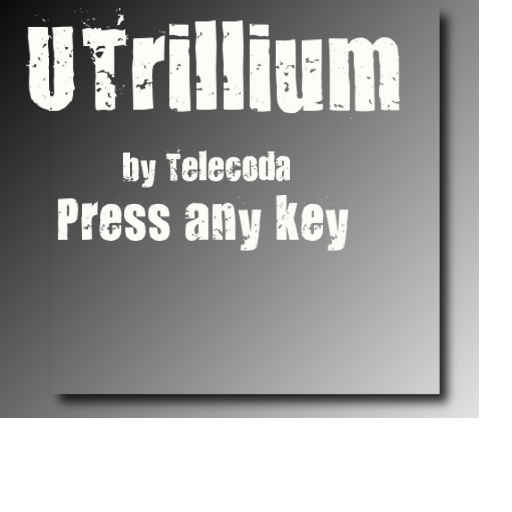
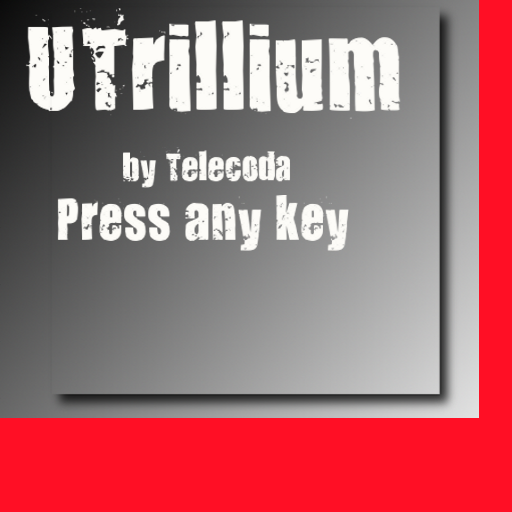
correct scaling on title/intro screens

Changed region(s): [[0.0, 0.0, 1.0, 1.0]]

diff --git a/utrillium/src/com/rsb/utrillium/views/IntroScreen.java b/utrillium/src/com/rsb/utrillium/views/IntroScreen.java
@@ -21,7 +21,7 @@ public class IntroScreen extends UTrilliumScreen {
 
 	@Override
 	public void show () {
-		intro = new TextureRegion(new Texture(Gdx.files.internal("data/intro.png")), 0, 0, UTrilliumConst.SCREEN_WIDTH, UTrilliumConst.SCREEN_WIDTH);
+		intro = new TextureRegion(new Texture(Gdx.files.internal("data/intro.png")), 0, 0, 512, 256);
 		batch = new SpriteBatch();
 		batch.getProjectionMatrix().setToOrtho2D(0, 0, UTrilliumConst.SCREEN_WIDTH, UTrilliumConst.SCREEN_HEIGHT);
 	}
@@ -30,7 +30,7 @@ public class IntroScreen extends UTrilliumScreen {
 	public void render (float delta) {
 		Gdx.gl.glClear(GL10.GL_COLOR_BUFFER_BIT);
 		batch.begin();
-		batch.draw(intro, 0, 0);
+		batch.draw(intro, 0, 0,UTrilliumConst.SCREEN_WIDTH, UTrilliumConst.SCREEN_HEIGHT);
 		batch.end();
 
 		time += delta;

diff --git a/utrillium/src/com/rsb/utrillium/views/MainMenu.java b/utrillium/src/com/rsb/utrillium/views/MainMenu.java
@@ -21,7 +21,7 @@ public class MainMenu extends UTrilliumScreen {
 
 	@Override
 	public void show () {
-		title = new TextureRegion(new Texture(Gdx.files.internal("data/title.png")), 0, 0, UTrilliumConst.SCREEN_WIDTH, UTrilliumConst.SCREEN_HEIGHT);
+		title = new TextureRegion(new Texture(Gdx.files.internal("data/title.png")), 0, 0, 477, 415);
 		batch = new SpriteBatch();
 		batch.getProjectionMatrix().setToOrtho2D(0, 0, UTrilliumConst.SCREEN_WIDTH, UTrilliumConst.SCREEN_HEIGHT);
 
@@ -31,7 +31,7 @@ public class MainMenu extends UTrilliumScreen {
 	public void render (float delta) {
 		Gdx.gl.glClear(GL10.GL_COLOR_BUFFER_BIT);
 		batch.begin();
-		batch.draw(title, 0, 0);
+		batch.draw(title, 0, 0,UTrilliumConst.SCREEN_WIDTH, UTrilliumConst.SCREEN_HEIGHT);
 		batch.end();
 
 		time += delta;
